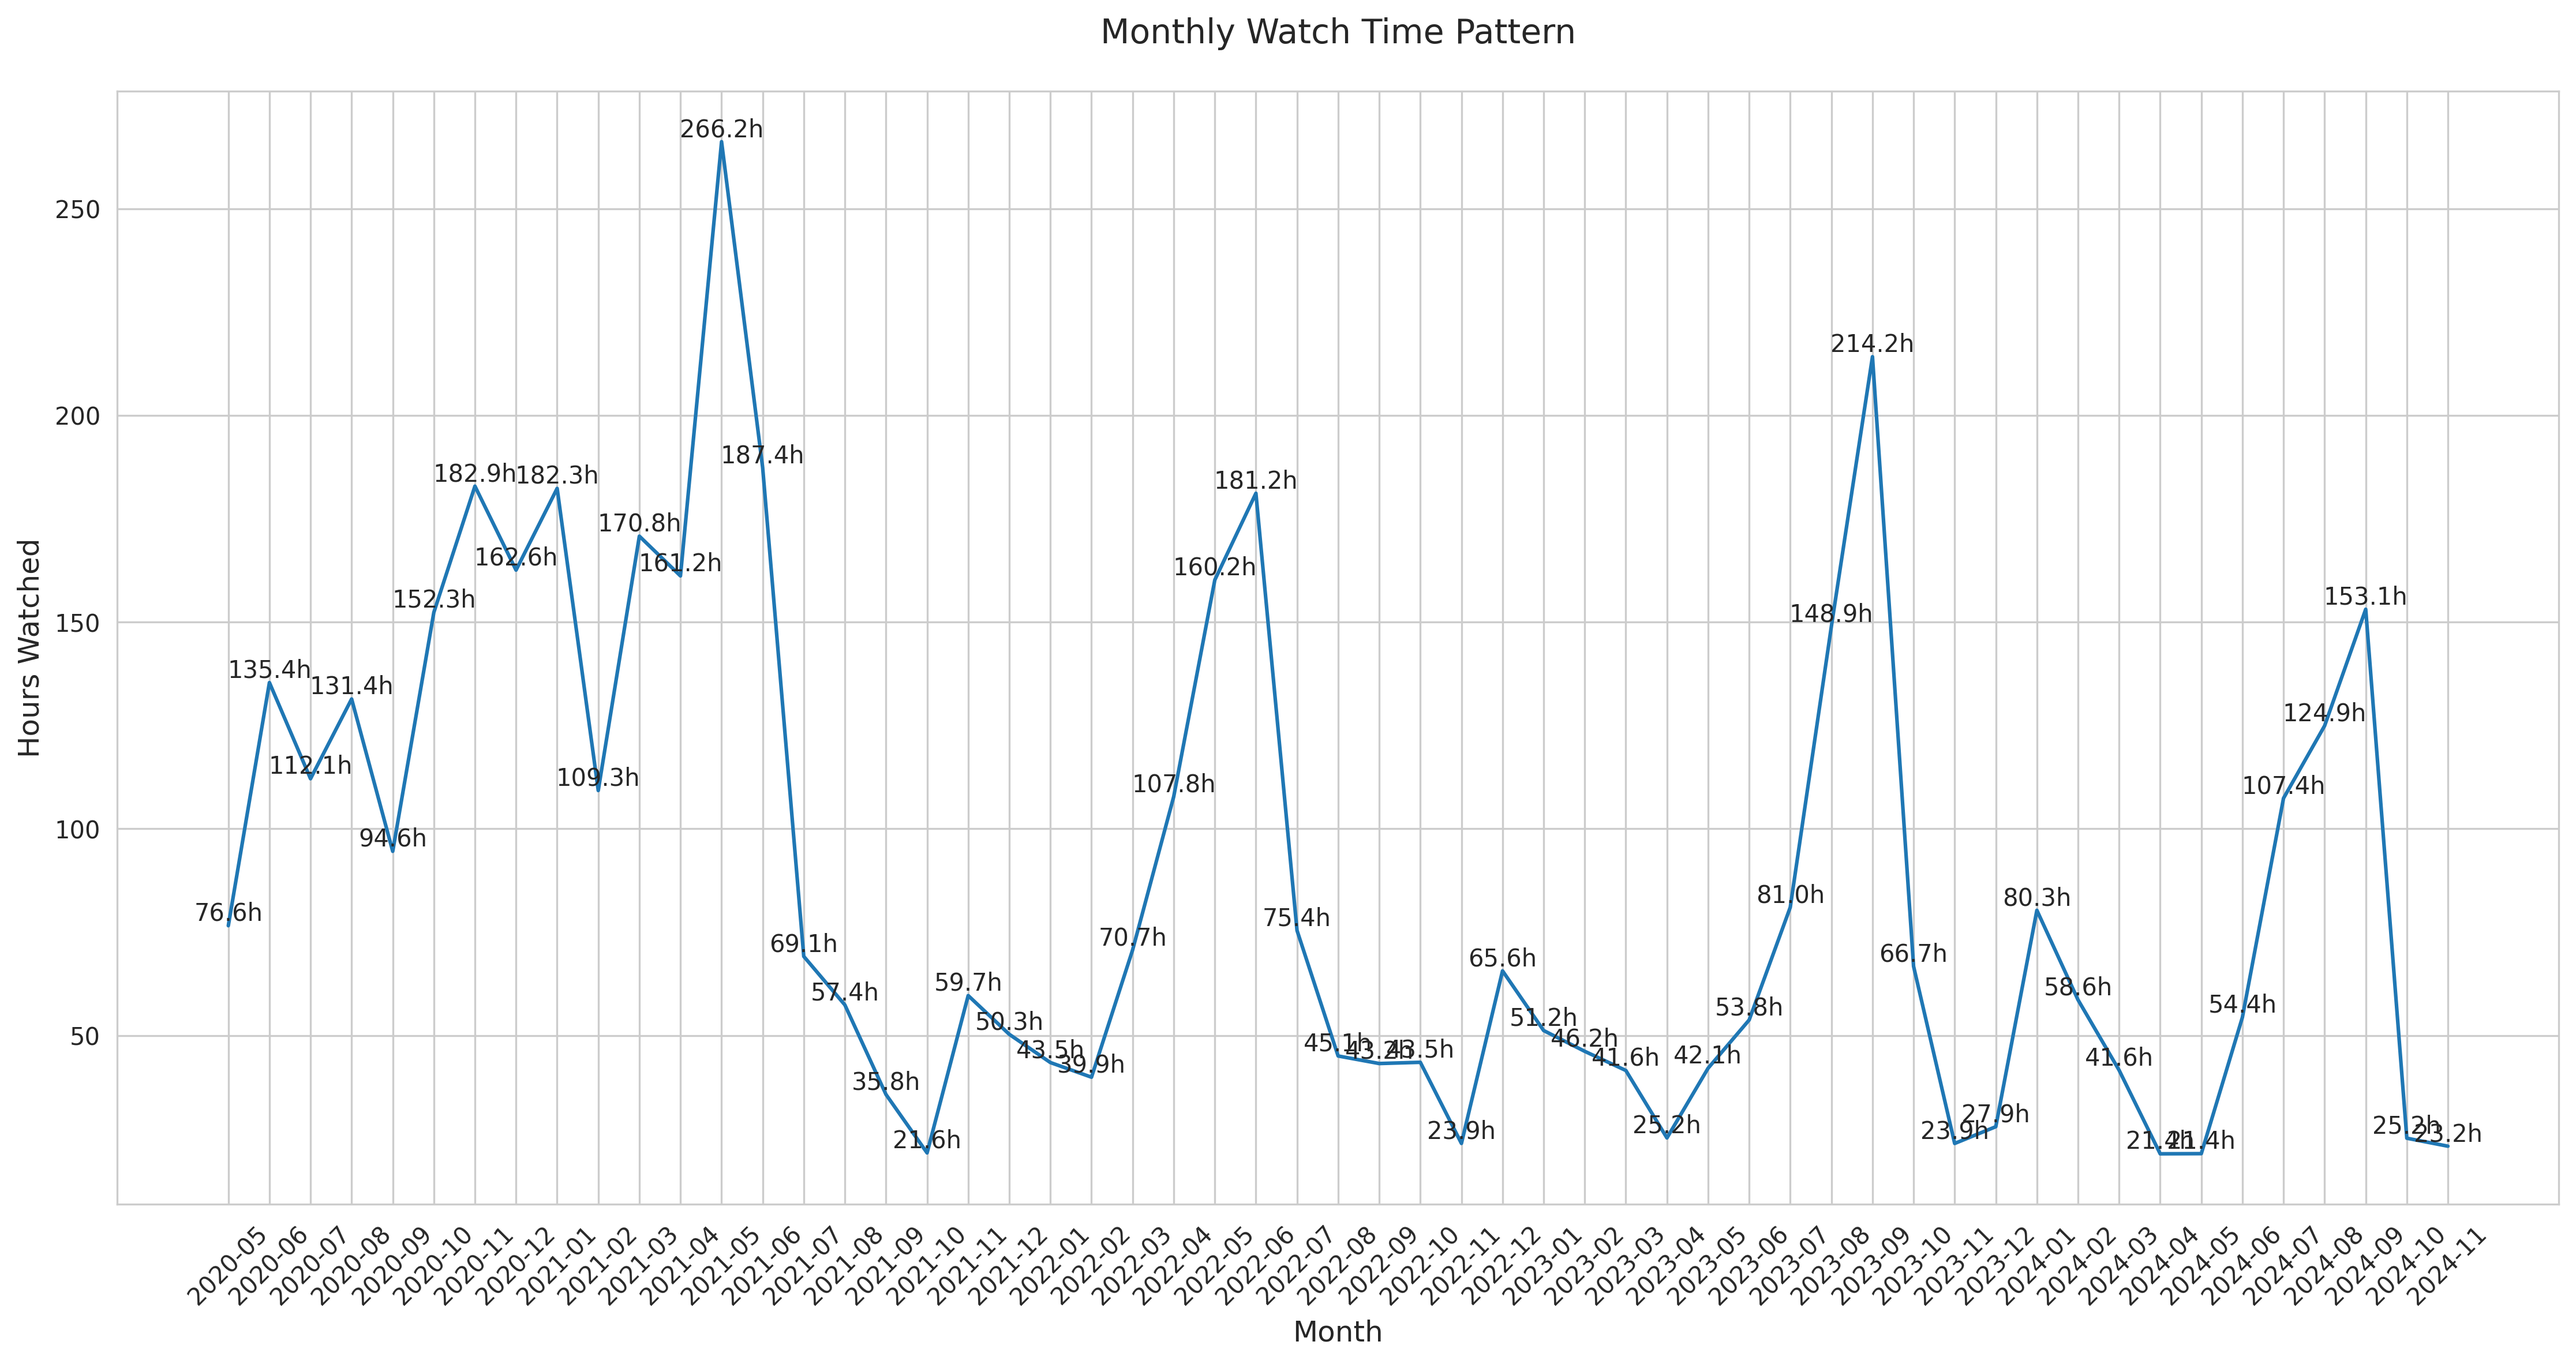
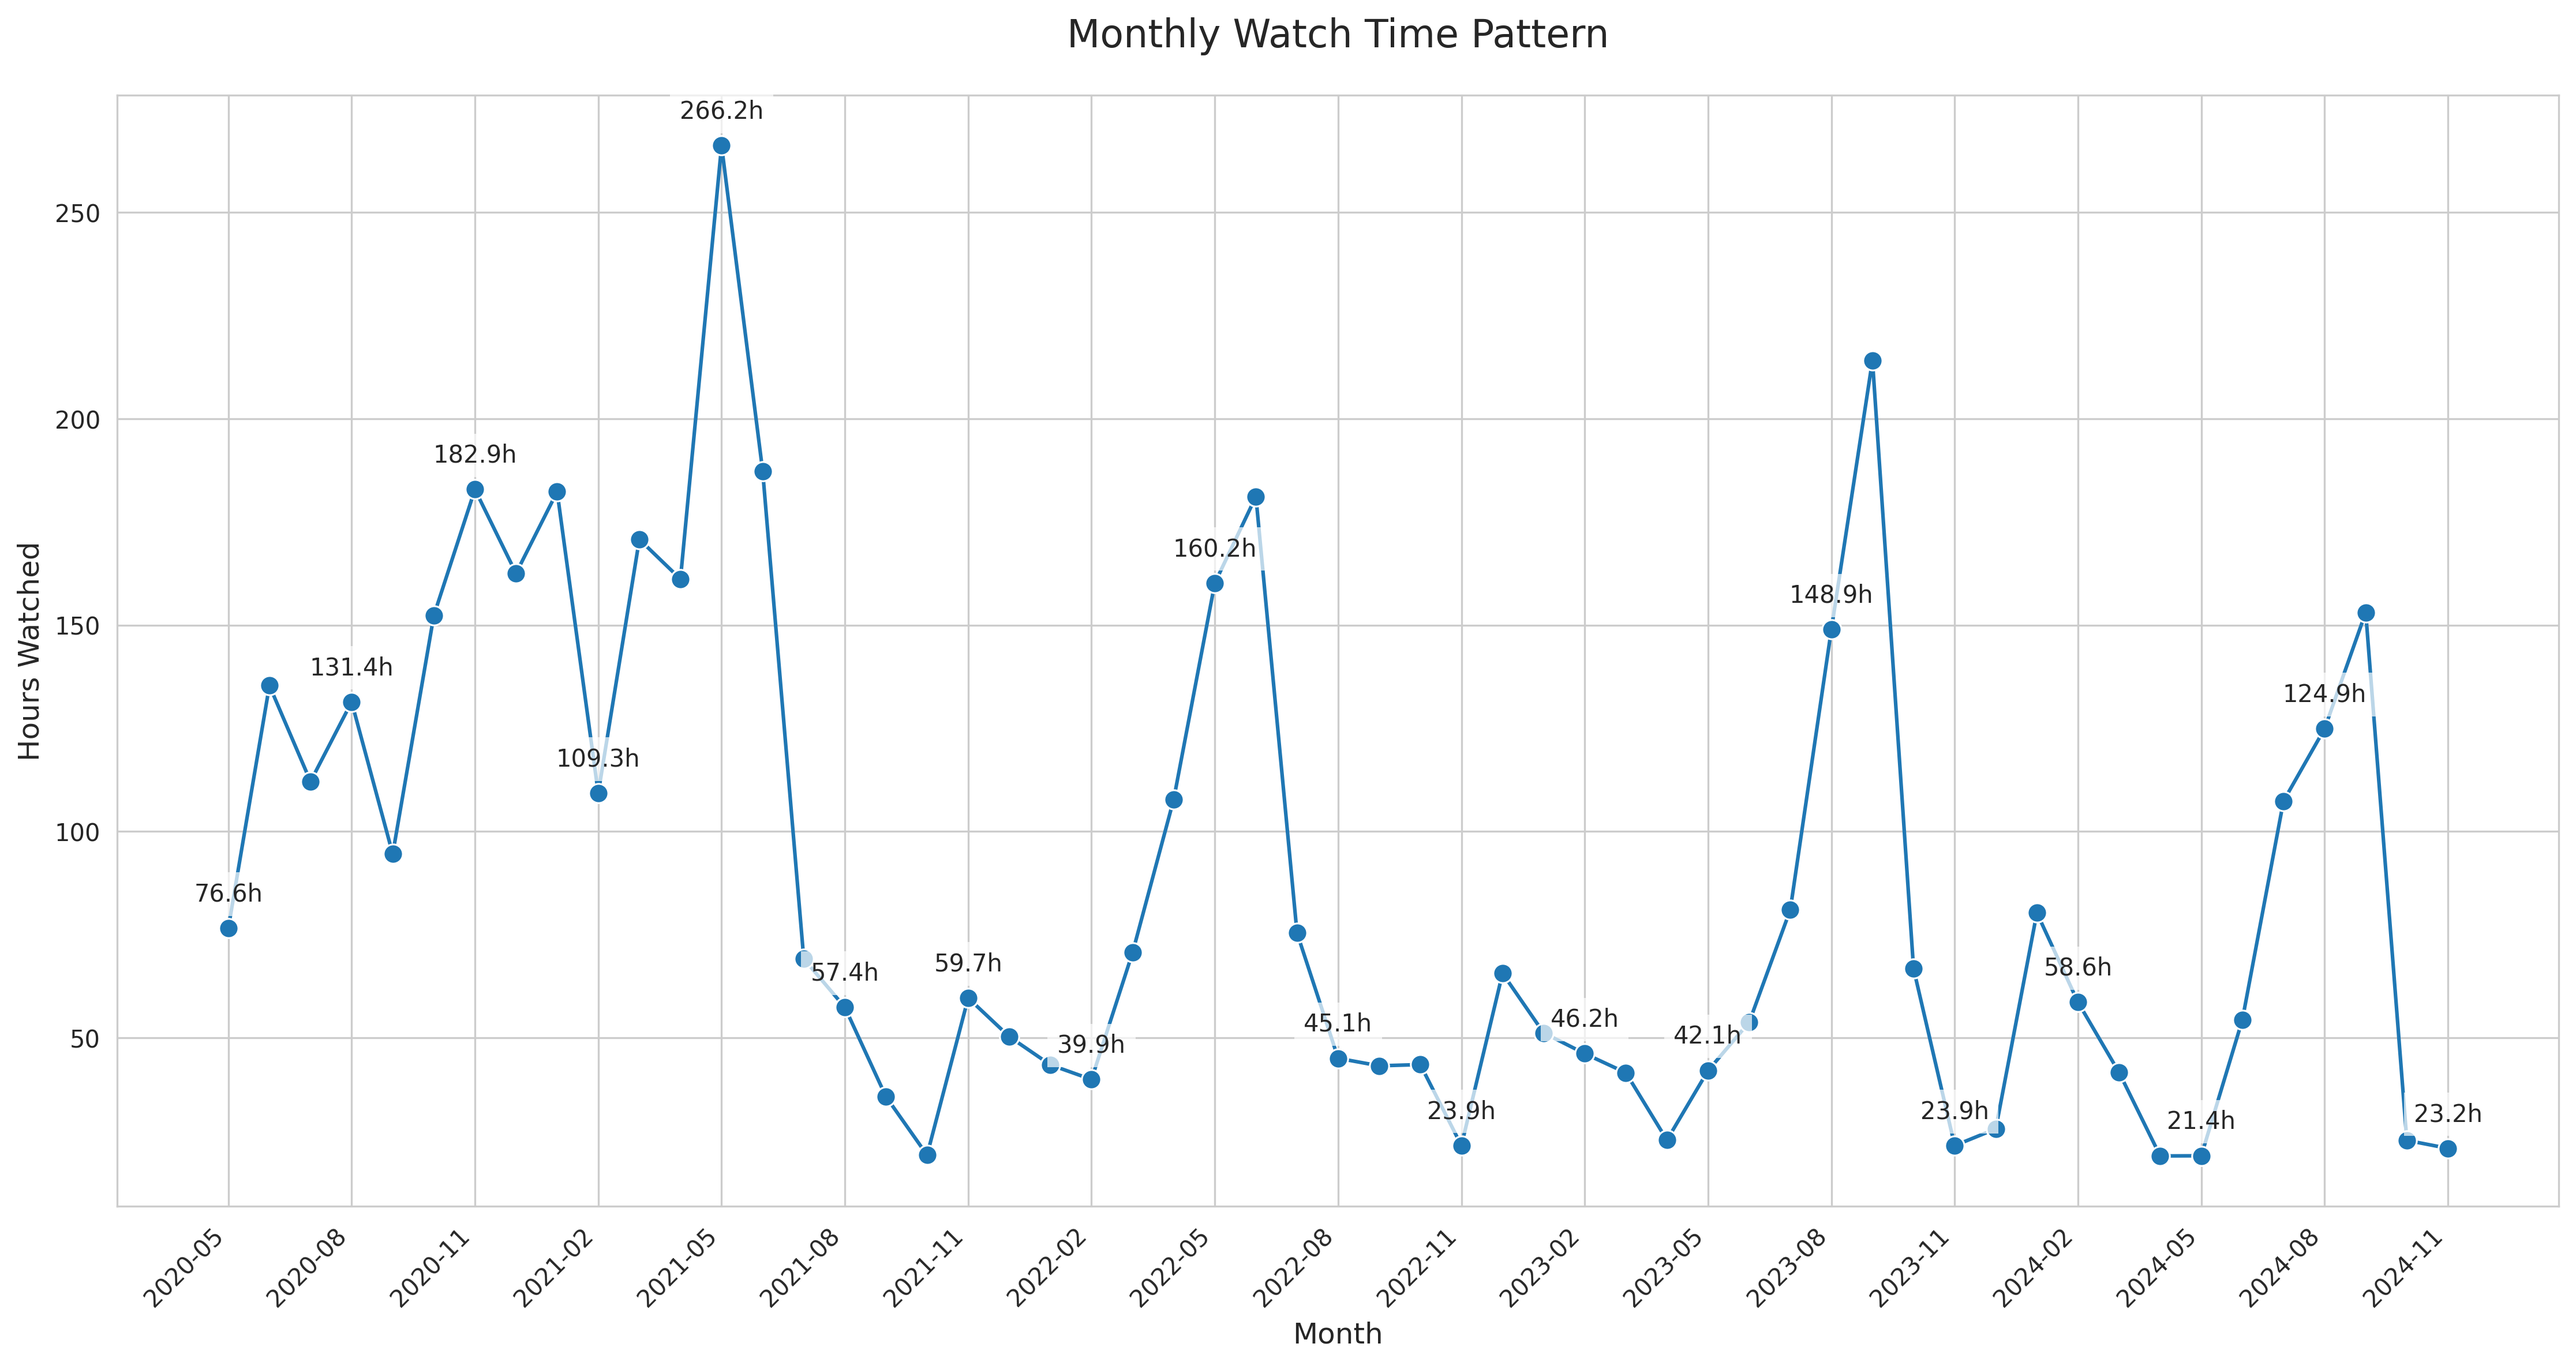
Updated the time_series_analysis.py for better visualizations.

diff --git a/time_series_analysis.py b/time_series_analysis.py
@@ -22,74 +22,84 @@ def create_analysis_plots(df, output_dir='results'):
     # 1. Monthly Watch Time Pattern
     plt.figure(figsize=(15, 8))
     monthly_watch = df.groupby('month')['duration'].sum()
-    sns.lineplot(data=monthly_watch)
     
-    plt.title('Monthly Watch Time Pattern', fontsize=14, pad=20)
+    # Create the line plot
+    ax = sns.lineplot(data=monthly_watch, marker='o', markersize=8)
+    
+    # Customize the plot
+    plt.title('Monthly Watch Time Pattern', fontsize=16, pad=20)
     plt.xlabel('Month', fontsize=12)
     plt.ylabel('Hours Watched', fontsize=12)
-    plt.xticks(rotation=45)
     
-    # Add value labels on points
+    # Show only every nth label to avoid overcrowding
+    n = 3  # Adjust this value to show more or fewer labels
+    plt.xticks(range(0, len(monthly_watch), n), 
+               [monthly_watch.index[i] for i in range(0, len(monthly_watch), n)],
+               rotation=45, ha='right')
+    
+    # Add value labels with better positioning
     for idx, val in enumerate(monthly_watch.values):
-        plt.text(idx, val, f'{val:.1f}h', ha='center', va='bottom')
+        if idx % n == 0:  # Only label every nth point
+            plt.text(idx, val + max(monthly_watch.values) * 0.02,  # Add small vertical offset
+                    f'{val:.1f}h',
+                    ha='center',
+                    va='bottom',
+                    fontsize=10,
+                    bbox=dict(facecolor='white', edgecolor='none', alpha=0.7))
     
     plt.tight_layout()
     plt.savefig(os.path.join(output_dir, 'monthly_pattern.png'), dpi=300, bbox_inches='tight')
     plt.close()
     
-    # 2. Daily Watch Time Pattern
+    # 2. Quarterly Category Distribution
     plt.figure(figsize=(15, 8))
-    daily_watch = df.groupby('date')['duration'].sum()
-    sns.lineplot(data=daily_watch)
     
-    # Calculate and annotate significant spikes and drops
-    mean_watch = daily_watch.mean()
-    std_watch = daily_watch.std()
-    spikes = daily_watch[daily_watch > mean_watch + 2*std_watch]
-    drops = daily_watch[daily_watch < mean_watch - 2*std_watch]
+    # Add quarter information with better formatting
+    df['quarter'] = pd.PeriodIndex(df['watched_on'], freq='Q').astype(str).str.replace('Q', '-Q')
     
-    for idx, val in spikes.items():
-        plt.annotate(f'{val:.1f}h', 
-                    xy=(idx, val), 
-                    xytext=(10, 10),
-                    textcoords='offset points',
-                    color='green')
+    # Calculate total duration for each category
+    category_totals = df.groupby('category')['duration'].sum().sort_values(ascending=False)
     
-    for idx, val in drops.items():
-        plt.annotate(f'{val:.1f}h', 
-                    xy=(idx, val), 
-                    xytext=(10, -10),
-                    textcoords='offset points',
-                    color='red')
+    # Identify major categories (top 5) and group others
+    top_categories = category_totals.head(5).index.tolist()
     
-    plt.title('Daily Watch Time Pattern', fontsize=14, pad=20)
-    plt.xlabel('Date', fontsize=12)
-    plt.ylabel('Hours Watched', fontsize=12)
-    plt.xticks(rotation=45)
-    plt.tight_layout()
-    plt.savefig(os.path.join(output_dir, 'daily_pattern.png'), dpi=300, bbox_inches='tight')
-    plt.close()
+    # Create a function to map categories
+    def map_category(cat):
+        return cat if cat in top_categories else 'Other'
     
-    # 3. Monthly Category Distribution
-    plt.figure(figsize=(15, 8))
-    monthly_category = df.pivot_table(
+    df['category_grouped'] = df['category'].map(map_category)
+    
+    # Create quarterly aggregation
+    quarterly_category = df.pivot_table(
         values='duration',
-        index='month',
-        columns='category',
+        index='quarter',
+        columns='category_grouped',
         aggfunc='sum',
         fill_value=0
     )
-    monthly_category.plot(kind='bar', stacked=True)
-    plt.title('Monthly Watch Time by Category', fontsize=14, pad=20)
-    plt.xlabel('Month', fontsize=12)
+    
+    # Create grouped bar chart
+    ax = quarterly_category.plot(
+        kind='bar',
+        width=0.8,
+        figsize=(15, 8)
+    )
+    
+    plt.title('Quarterly Watch Time by Category', fontsize=16, pad=20)
+    plt.xlabel('Quarter', fontsize=12)
     plt.ylabel('Hours Watched', fontsize=12)
+    
+    # Customize legend
     plt.legend(title='Category', bbox_to_anchor=(1.05, 1), loc='upper left')
-    plt.xticks(rotation=45)
+    
+    # Rotate x-axis labels for better readability
+    plt.xticks(rotation=45, ha='right')
+    
     plt.tight_layout()
     plt.savefig(os.path.join(output_dir, 'monthly_category_pattern.png'), dpi=300, bbox_inches='tight')
     plt.close()
     
-    # 4. Hourly Distribution
+    # 3. Hourly Distribution
     plt.figure(figsize=(15, 8))
     hourly_pattern = df.groupby('hour')['duration'].sum()
     sns.barplot(x=hourly_pattern.index, y=hourly_pattern.values)
@@ -105,7 +115,7 @@ def create_analysis_plots(df, output_dir='results'):
     plt.savefig(os.path.join(output_dir, 'hourly_pattern.png'), dpi=300, bbox_inches='tight')
     plt.close()
     
-    # 5. Day of Week Distribution
+    # 4. Day of Week Distribution
     plt.figure(figsize=(15, 8))
     day_order = ['Monday', 'Tuesday', 'Wednesday', 'Thursday', 'Friday', 'Saturday', 'Sunday']
     daily_pattern = df.groupby('day_of_week')['duration'].sum()
@@ -132,7 +142,6 @@ def create_analysis_plots(df, output_dir='results'):
         f.write("General Statistics:\n")
         f.write("-" * 40 + "\n")
         f.write(f"Total watch time: {df['duration'].sum():.1f} hours\n")
-        f.write(f"Average daily watch time: {daily_watch.mean():.1f} hours\n")
         f.write(f"Average monthly watch time: {monthly_watch.mean():.1f} hours\n")
         f.write(f"Peak hour: {hourly_pattern.idxmax()}:00 ({hourly_pattern.max():.1f} hours total)\n")
         f.write(f"Most active day: {daily_pattern.idxmax()} ({daily_pattern.max():.1f} hours total)\n\n")
@@ -141,24 +150,11 @@ def create_analysis_plots(df, output_dir='results'):
         f.write("-" * 40 + "\n")
         for month, duration in monthly_watch.items():
             f.write(f"{month}: {duration:.1f} hours\n")
-        
-        f.write("\nSignificant Patterns:\n")
-        f.write("-" * 40 + "\n")
-        f.write(f"Number of high-activity days (>2 std): {len(spikes)}\n")
-        f.write(f"Number of low-activity days (<2 std): {len(drops)}\n\n")
-        
-        f.write("Peak watching days:\n")
-        f.write("-" * 40 + "\n")
-        for date, hours in spikes.nlargest(5).items():
-            f.write(f"- {date}: {hours:.1f} hours\n")
     
     return {
         'monthly_watch': monthly_watch,
-        'daily_watch': daily_watch,
         'hourly_pattern': hourly_pattern,
-        'daily_pattern': daily_pattern,
-        'spikes': spikes,
-        'drops': drops
+        'daily_pattern': daily_pattern
     }
 
 def analyze_viewing_patterns(enhanced_categories_path, output_dir='results'):
@@ -173,11 +169,10 @@ def analyze_viewing_patterns(enhanced_categories_path, output_dir='results'):
     
     print(f"\nAnalysis complete! Files have been saved to the '{output_dir}' directory:")
     print("1. monthly_pattern.png - Monthly watching patterns")
-    print("2. daily_pattern.png - Daily watching patterns with spikes and drops")
-    print("3. monthly_category_pattern.png - Monthly patterns by category")
-    print("4. hourly_pattern.png - Distribution of watch time by hour")
-    print("5. daily_distribution.png - Distribution of watch time by day of week")
-    print("6. viewing_statistics.txt - Detailed statistics and patterns")
+    print("2. monthly_category_pattern.png - Monthly patterns by category")
+    print("3. hourly_pattern.png - Distribution of watch time by hour")
+    print("4. daily_distribution.png - Distribution of watch time by day of week")
+    print("5. viewing_statistics.txt - Detailed statistics and patterns")
 
 if __name__ == "__main__":
     # Specify the paths
